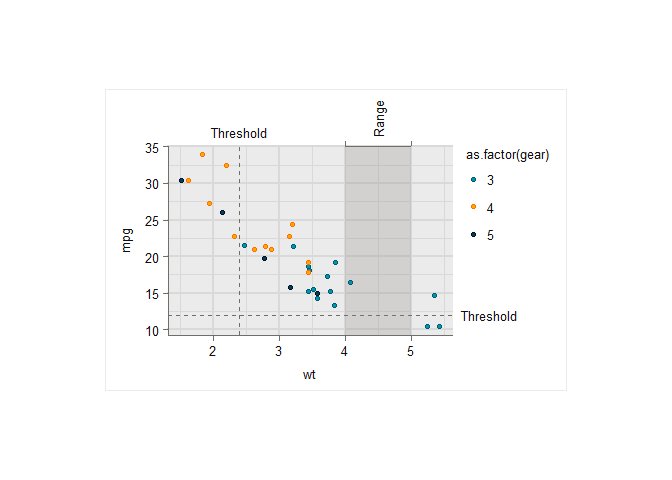
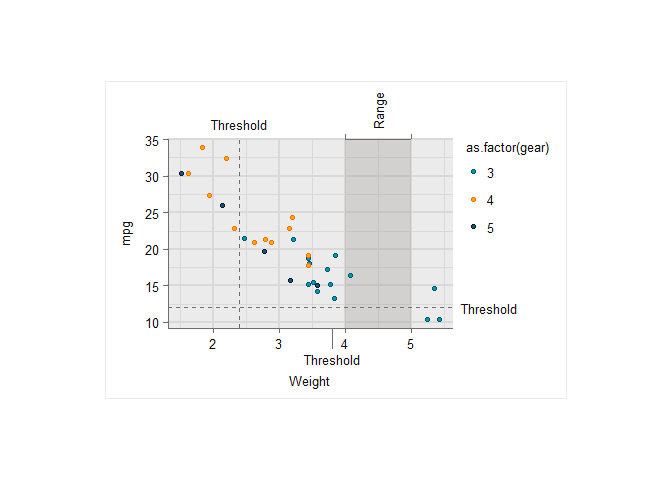
Update

diff --git a/README.md b/README.md
@@ -14,9 +14,6 @@ publication-quality ‘ggplot2’ visualisation.
 
 Note:
 
-- To avoid namespace collisions, it is recommended to not load the
-  package, but instead refer to each function with the package name
-  (e.g. `ggscribe::sec_axis_text()`.
 - `sec_axis_text` adjusts space in the plot, whereas `axis_*` functions
   do not.
 - `axis_ticks`, `axis_text` and `axis_bracket` require (1) a globally
@@ -90,6 +87,19 @@ mtcars |>
     breaks = 12,
     labels = "Threshold",
   ) +
+  #bottom axis
+  ggscribe::axis_ticks(
+    position = "bottom",
+    breaks = 3.8,
+    length = rel(4.33),
+  ) +
+  ggscribe::axis_text(
+    position = "bottom",
+    breaks = 3.8,
+    labels = "Threshold",
+    length = rel(4.33),
+  ) +
+  labs(x = "\nWeight") +
   #geom
   geom_point() +
   #annotations fit plot

diff --git a/NEWS.md b/NEWS.md
@@ -1,3 +1,7 @@
+# ggscribe (development)
+
+* Improved ticks and bracket linewidth.
+
 # ggscribe 0.1.1
 
 * Updated Readme.
